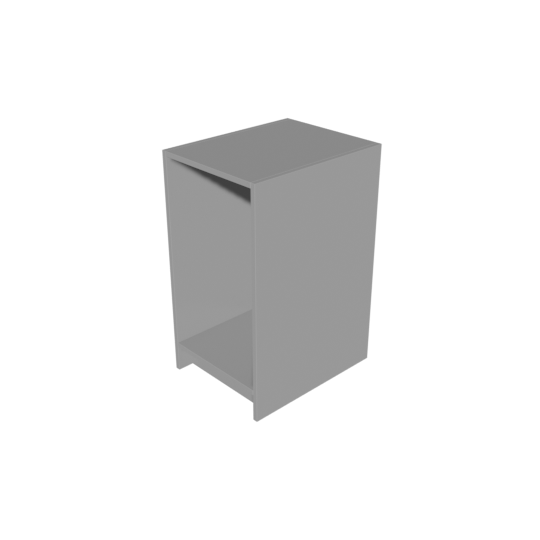
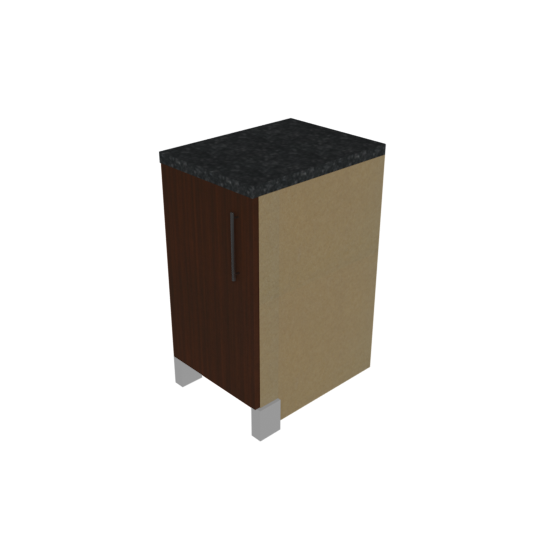
Adding Drawer Fronts

Changed region(s): [[0.2963, 0.2074, 0.7407, 0.8296]]

diff --git a/data_cabinet_doors.py b/data_cabinet_doors.py
@@ -53,3 +53,83 @@ class Door(bp_types.Assembly):
         pull_obj.drivers.loc_x('x-pull_horizontal_location',[x,pull_horizontal_location])
         pull_obj.rotation_euler.y = math.radians(90)
         kitchen_utils.assign_materials_to_object(pull_obj)
+
+class Drawers(bp_types.Assembly):
+    category_name = "Doors"
+    prompt_id = "room.part_prompts"
+    placement_id = "room.draw_multiple_walls"
+
+    drawer_qty = 3
+
+    def add_drawer_front(self,index,prev_drawer_empty,calculator):
+        props = kitchen_utils.get_kitchen_scene_props()
+
+        drawer_front_height = self.get_prompt("Drawer Front " + str(index) + " Height").get_var(calculator.name,'drawer_front_height')
+        # drawer_front_height = self.get_prompt("Drawer Front " + str(index) + " Height").get_var('drawer_front_height')
+        x = self.obj_x.drivers.get_var('location.x','x')
+        y = self.obj_y.drivers.get_var('location.y','y')
+        z = self.obj_z.drivers.get_var('location.z','z')
+        top_overlay = self.get_prompt("Top Overlay").get_var('top_overlay')
+        bottom_overlay = self.get_prompt("Bottom Overlay").get_var('bottom_overlay')
+        left_overlay = self.get_prompt("Left Overlay").get_var('left_overlay')
+        right_overlay = self.get_prompt("Right Overlay").get_var('right_overlay')
+        door_to_cabinet_gap = self.get_prompt("Door to Cabinet Gap").get_var('door_to_cabinet_gap')
+        front_thickness = self.get_prompt("Front Thickness").get_var('front_thickness')
+        pull_vertical_location = self.get_prompt("Pull Vertical Location").get_var('pull_vertical_location')
+        pull_horizontal_location = self.get_prompt("Pull Horizontal Location").get_var('pull_horizontal_location')
+        vertical_gap = self.get_prompt("Vertical Gap").get_var('vertical_gap')
+
+        front_empty = self.add_empty('Front Z Location ' + str(index))
+
+        if prev_drawer_empty:
+            prev_drawer_z_loc = prev_drawer_empty.drivers.get_var('location.z','prev_drawer_z_loc')
+            front_empty.drivers.loc_z('prev_drawer_z_loc-drawer_front_height-vertical_gap',[prev_drawer_z_loc,drawer_front_height,vertical_gap])
+        else:
+            front_empty.drivers.loc_z('z-drawer_front_height+top_overlay',[z,drawer_front_height,top_overlay])        
+        
+        drawer_z_loc = front_empty.drivers.get_var('location.z',"drawer_z_loc")
+
+        drawer_front = data_cabinet_parts.add_door_part(self)
+        drawer_front.set_name('Drawer Front')
+        drawer_front.loc_x('-left_overlay',[left_overlay])
+        drawer_front.loc_y('-door_to_cabinet_gap',[door_to_cabinet_gap])
+        drawer_front.loc_z('drawer_z_loc',[drawer_z_loc])
+        drawer_front.rot_x(value = math.radians(90))
+        drawer_front.rot_y(value = math.radians(-90))
+        drawer_front.dim_x('drawer_front_height',[drawer_front_height])
+        drawer_front.dim_y('(x+left_overlay+right_overlay)*-1',[x,left_overlay,right_overlay])
+        drawer_front.dim_z('front_thickness',[front_thickness])
+        kitchen_utils.flip_normals(drawer_front)
+
+        pull_obj = kitchen_utils.get_pull(props.pull_category,props.pull_name)
+        self.add_object(pull_obj)
+        pull_obj.drivers.loc_y('-front_thickness',[front_thickness])
+        pull_obj.drivers.loc_z('drawer_z_loc+(drawer_front_height/2)',[drawer_z_loc,drawer_front_height])
+        pull_obj.drivers.loc_x('x/2',[x,pull_horizontal_location])
+        pull_obj.rotation_euler.y = math.radians(180)
+        kitchen_utils.assign_materials_to_object(pull_obj)
+
+        return front_empty
+
+    def draw(self):
+        self.create_assembly("Drawers")
+        self.obj_bp["IS_DRAWERS_BP"] = True
+
+        common_prompts.add_door_prompts(self)
+        common_prompts.add_front_prompts(self)
+        common_prompts.add_front_overlay_prompts(self)
+        common_prompts.add_pull_prompts(self)
+
+        front_height_calculator = self.obj_prompts.prompt_page.add_calculator("Front Height Calculator")
+
+        drawer = None
+        for i in range(self.drawer_qty):
+            front_height_calculator.add_calculator_prompt('Drawer Front ' + str(i + 1) + ' Height')
+            drawer = self.add_drawer_front(i + 1,drawer,front_height_calculator)
+
+        z = self.obj_z.drivers.get_var('location.z','z')
+        top_overlay = self.get_prompt("Top Overlay").get_var('top_overlay')
+        bottom_overlay = self.get_prompt("Bottom Overlay").get_var('bottom_overlay')
+        vertical_gap = self.get_prompt("Vertical Gap").get_var('vertical_gap')
+        
+        front_height_calculator.set_total_distance('z+top_overlay+bottom_overlay-vertical_gap*' + str(self.drawer_qty-1),[z,top_overlay,bottom_overlay,vertical_gap])

diff --git a/data_cabinets.py b/data_cabinets.py
@@ -7,7 +7,7 @@ from . import kitchen_utils
 import time
 import math
 
-class Base_Cabinet(bp_types.Assembly):
+class Open_Cabinet(bp_types.Assembly):
     show_in_library = True
     category_name = "Cabinets"
     prompt_id = "kitchen.cabinet_prompts"
@@ -39,7 +39,7 @@ class Base_Cabinet(bp_types.Assembly):
 
         print("Base_Cabinet: Draw Time --- %s seconds ---" % (time.time() - start_time))
 
-class Test_Cabinet(bp_types.Assembly):
+class Base_Cabinet(bp_types.Assembly):
     show_in_library = True
     category_name = "Cabinets"
     prompt_id = "kitchen.cabinet_prompts"
@@ -102,3 +102,64 @@ class Test_Cabinet(bp_types.Assembly):
 
         print("Test_Cabinet: Draw Time --- %s seconds ---" % (time.time() - start_time))
 
+class Drawer_Cabinet(bp_types.Assembly):
+    show_in_library = True
+    category_name = "Cabinets"
+    prompt_id = "kitchen.cabinet_prompts"
+    placement_id = "kitchen.place_cabinet"
+
+    def draw(self):
+        start_time = time.time()
+        props = kitchen_utils.get_kitchen_scene_props()
+
+        self.create_assembly()
+        self.obj_bp["IS_CABINET_BP"] = True
+        self.obj_y['IS_MIRROR'] = True
+        self.obj_x.location.x = bp_unit.inch(18) 
+        self.obj_y.location.y = -props.base_cabinet_depth
+        self.obj_z.location.z = props.base_cabinet_height
+
+        ctop_front = self.add_prompt("Countertop Overhang Front",'DISTANCE',bp_unit.inch(1))
+        ctop_back = self.add_prompt("Countertop Overhang Back",'DISTANCE',bp_unit.inch(0))
+        ctop_left = self.add_prompt("Countertop Overhang Left",'DISTANCE',bp_unit.inch(0))
+        ctop_right = self.add_prompt("Countertop Overhang Right",'DISTANCE',bp_unit.inch(0))        
+
+        width = self.obj_x.drivers.get_var('location.x','width')
+        depth = self.obj_y.drivers.get_var('location.y','depth')
+        height = self.obj_z.drivers.get_var('location.z','height')
+        ctop_overhang_front = ctop_front.get_var('ctop_overhang_front')
+        ctop_overhang_back = ctop_back.get_var('ctop_overhang_back')
+        ctop_overhang_left = ctop_left.get_var('ctop_overhang_left')
+        ctop_overhang_right = ctop_right.get_var('ctop_overhang_right')
+
+        carcass = self.add_assembly(data_cabinet_carcass.Standard2())
+        carcass.set_name('Carcass')
+        carcass.loc_x(value=0)
+        carcass.loc_y(value=0)
+        carcass.loc_z(value=0)
+        carcass.dim_x('width',[width])
+        carcass.dim_y('depth',[depth])
+        carcass.dim_z('height',[height])       
+
+        material_thickness = carcass.get_prompt('Material Thickness').get_var('material_thickness')
+        toe_kick_height = carcass.get_prompt('Toe Kick Height').get_var('toe_kick_height')
+
+        countertop = self.add_assembly(data_countertops.Countertop())
+        countertop.set_name('Countertop')
+        countertop.loc_x('-ctop_overhang_left',[ctop_overhang_left])
+        countertop.loc_y('ctop_overhang_back',[ctop_overhang_back])
+        countertop.loc_z('height',[height])
+        countertop.dim_x('width+ctop_overhang_left+ctop_overhang_right',[width,ctop_overhang_left,ctop_overhang_right])
+        countertop.dim_y('depth-(ctop_overhang_front+ctop_overhang_back)',[depth,ctop_overhang_front,ctop_overhang_back])
+        countertop.dim_z(value=.1)
+
+        drawers = self.add_assembly(data_cabinet_doors.Drawers())
+        drawers.set_name('Drawers')
+        drawers.loc_x('material_thickness',[material_thickness])
+        drawers.loc_y('depth',[depth])
+        drawers.loc_z('toe_kick_height+material_thickness',[toe_kick_height,material_thickness])
+        drawers.dim_x('width-(material_thickness*2)',[width,material_thickness])
+        drawers.dim_y('depth',[depth])
+        drawers.dim_z('height-toe_kick_height-(material_thickness*2)',[height,toe_kick_height,material_thickness])
+
+        print("Test_Cabinet: Draw Time --- %s seconds ---" % (time.time() - start_time))

diff --git a/kitchen_ui.py b/kitchen_ui.py
@@ -29,6 +29,8 @@ class KITCHEN_OT_cabinet_prompts(bpy.types.Operator):
                                                 ('INTERIOR',"Interior","Interior Options"),
                                                 ('SPLITTER',"Openings","Openings Options")])
 
+    drawer_calculator = None
+
     left_side = None
     right_side = None
 
@@ -36,6 +38,7 @@ class KITCHEN_OT_cabinet_prompts(bpy.types.Operator):
     carcass = None
     countertop = None
     doors = None
+    drawers = None
     interior = None
 
     def update_product_size(self):
@@ -62,9 +65,11 @@ class KITCHEN_OT_cabinet_prompts(bpy.types.Operator):
 
     def check(self, context):
         self.update_product_size()
-        self.countertop.obj_bp.location = self.countertop.obj_bp.location
-        self.countertop.obj_x.location = self.countertop.obj_x.location
-        self.countertop.obj_y.location = self.countertop.obj_y.location
+        if self.drawer_calculator:
+            self.drawer_calculator.calculate()
+        # self.countertop.obj_bp.location = self.countertop.obj_bp.location
+        # self.countertop.obj_x.location = self.countertop.obj_x.location
+        # self.countertop.obj_y.location = self.countertop.obj_y.location
         self.update_materials(context)
         return True
 
@@ -81,6 +86,9 @@ class KITCHEN_OT_cabinet_prompts(bpy.types.Operator):
                 self.exterior = bp_types.Assembly(child)                     
             if "IS_COUNTERTOP_BP" in child and child["IS_COUNTERTOP_BP"]:
                 self.countertop = bp_types.Assembly(child)   
+            if "IS_DRAWERS_BP" in child and child["IS_DRAWERS_BP"]:
+                self.drawers = bp_types.Assembly(child)   
+                self.drawer_calculator = self.drawers.get_calculator('Front Height Calculator')
 
         for child in self.carcass.obj_bp.children:
             if "IS_LEFT_SIDE_BP" in child and child["IS_LEFT_SIDE_BP"]:
@@ -175,6 +183,11 @@ class KITCHEN_OT_cabinet_prompts(bpy.types.Operator):
         ctop_left.draw(layout)  
         ctop_right.draw(layout)         
 
+    def draw_drawer_prompts(self,layout,context):
+        for prompt in self.drawer_calculator.prompts:
+            prompt.draw(layout)
+
+
     def draw(self, context):
         layout = self.layout
         self.draw_product_size(layout,context)
@@ -189,6 +202,10 @@ class KITCHEN_OT_cabinet_prompts(bpy.types.Operator):
         if self.product_tabs == 'CARCASS':
             self.draw_carcass_prompts(prompt_box,context)
             self.draw_countertop_prompts(prompt_box,context)
+
+        if self.product_tabs == 'EXTERIOR':
+            if self.drawer_calculator:
+                self.draw_drawer_prompts(prompt_box,context)
 
 
 def register():

diff --git a/bp_lib/bp_types.py b/bp_lib/bp_types.py
@@ -145,6 +145,7 @@ class Assembly:
 
     def add_empty(self,obj_name):
         obj = bpy.data.objects.new(obj_name,None)
+        bpy.context.view_layer.active_layer_collection.collection.objects.link(obj)
         obj.location = (0,0,0)
         obj.parent = self.obj_bp
         # self.coll.objects.link(obj)
@@ -190,6 +191,14 @@ class Assembly:
     def get_prompt(self,name):
         if name in self.obj_prompts.prompt_page.prompts:
             return self.obj_prompts.prompt_page.prompts[name]
+        
+        for calculator in self.obj_prompts.prompt_page.calculators:
+            if name in calculator.prompts:
+                return calculator.prompts[name]
+
+    def get_calculator(self,name):
+        if name in self.obj_prompts.prompt_page.calculators:
+            return self.obj_prompts.prompt_page.calculators[name]
 
     def loc_x(self,expression="",variables=[],value=0):
         if expression == "":

diff --git a/kitchen_ops.py b/kitchen_ops.py
@@ -100,6 +100,11 @@ class KITCHEN_OT_place_cabinet(bpy.types.Operator):
         self.refresh_data(False)      
 
     def set_child_properties(self,obj):
+        if "IS_DRAWERS_BP" in obj and obj["IS_DRAWERS_BP"]:
+            drawers = bp_types.Assembly(obj)   
+            drawer_calculator = drawers.get_calculator('Front Height Calculator')
+            drawer_calculator.calculate()
+
         obj["PROMPT_ID"] = "kitchen.cabinet_prompts"   
         if obj.type == 'EMPTY':
             obj.hide_viewport = True    

diff --git a/common_prompts.py b/common_prompts.py
@@ -15,6 +15,7 @@ def add_front_overlay_prompts(assembly):
     assembly.add_prompt("Bottom Overlay",'DISTANCE',bp_unit.inch(.6875))
     assembly.add_prompt("Left Overlay",'DISTANCE',bp_unit.inch(.6875))
     assembly.add_prompt("Right Overlay",'DISTANCE',bp_unit.inch(.6875))
+    assembly.add_prompt("Vertical Gap",'DISTANCE',bp_unit.inch(.125))
 
 def add_pull_prompts(assembly):
     assembly.add_prompt("Pull Vertical Location",'DISTANCE',bp_unit.inch(1.5))
